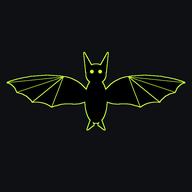
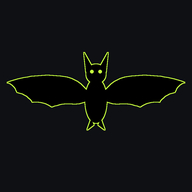
Operación Batman: icono sin líneas en las alas
Claude-Session: https://claude.ai/code/session_0136anGwXVA4PohtLM3ELyZh

diff --git a/focus/sw.js b/focus/sw.js
@@ -1,5 +1,5 @@
 // Service worker de Focus: la app abre aunque no haya conexión; los datos siempre van a la red.
-const CACHE = 'focus-v9';
+const CACHE = 'focus-v10';
 const ASSETS = ['./', './index.html', './manifest.json', './icon-180.png', './icon-192.png', './icon-512.png'];
 self.addEventListener('install', e => {
   e.waitUntil(caches.open(CACHE).then(c => c.addAll(ASSETS)).then(() => self.skipWaiting()));
